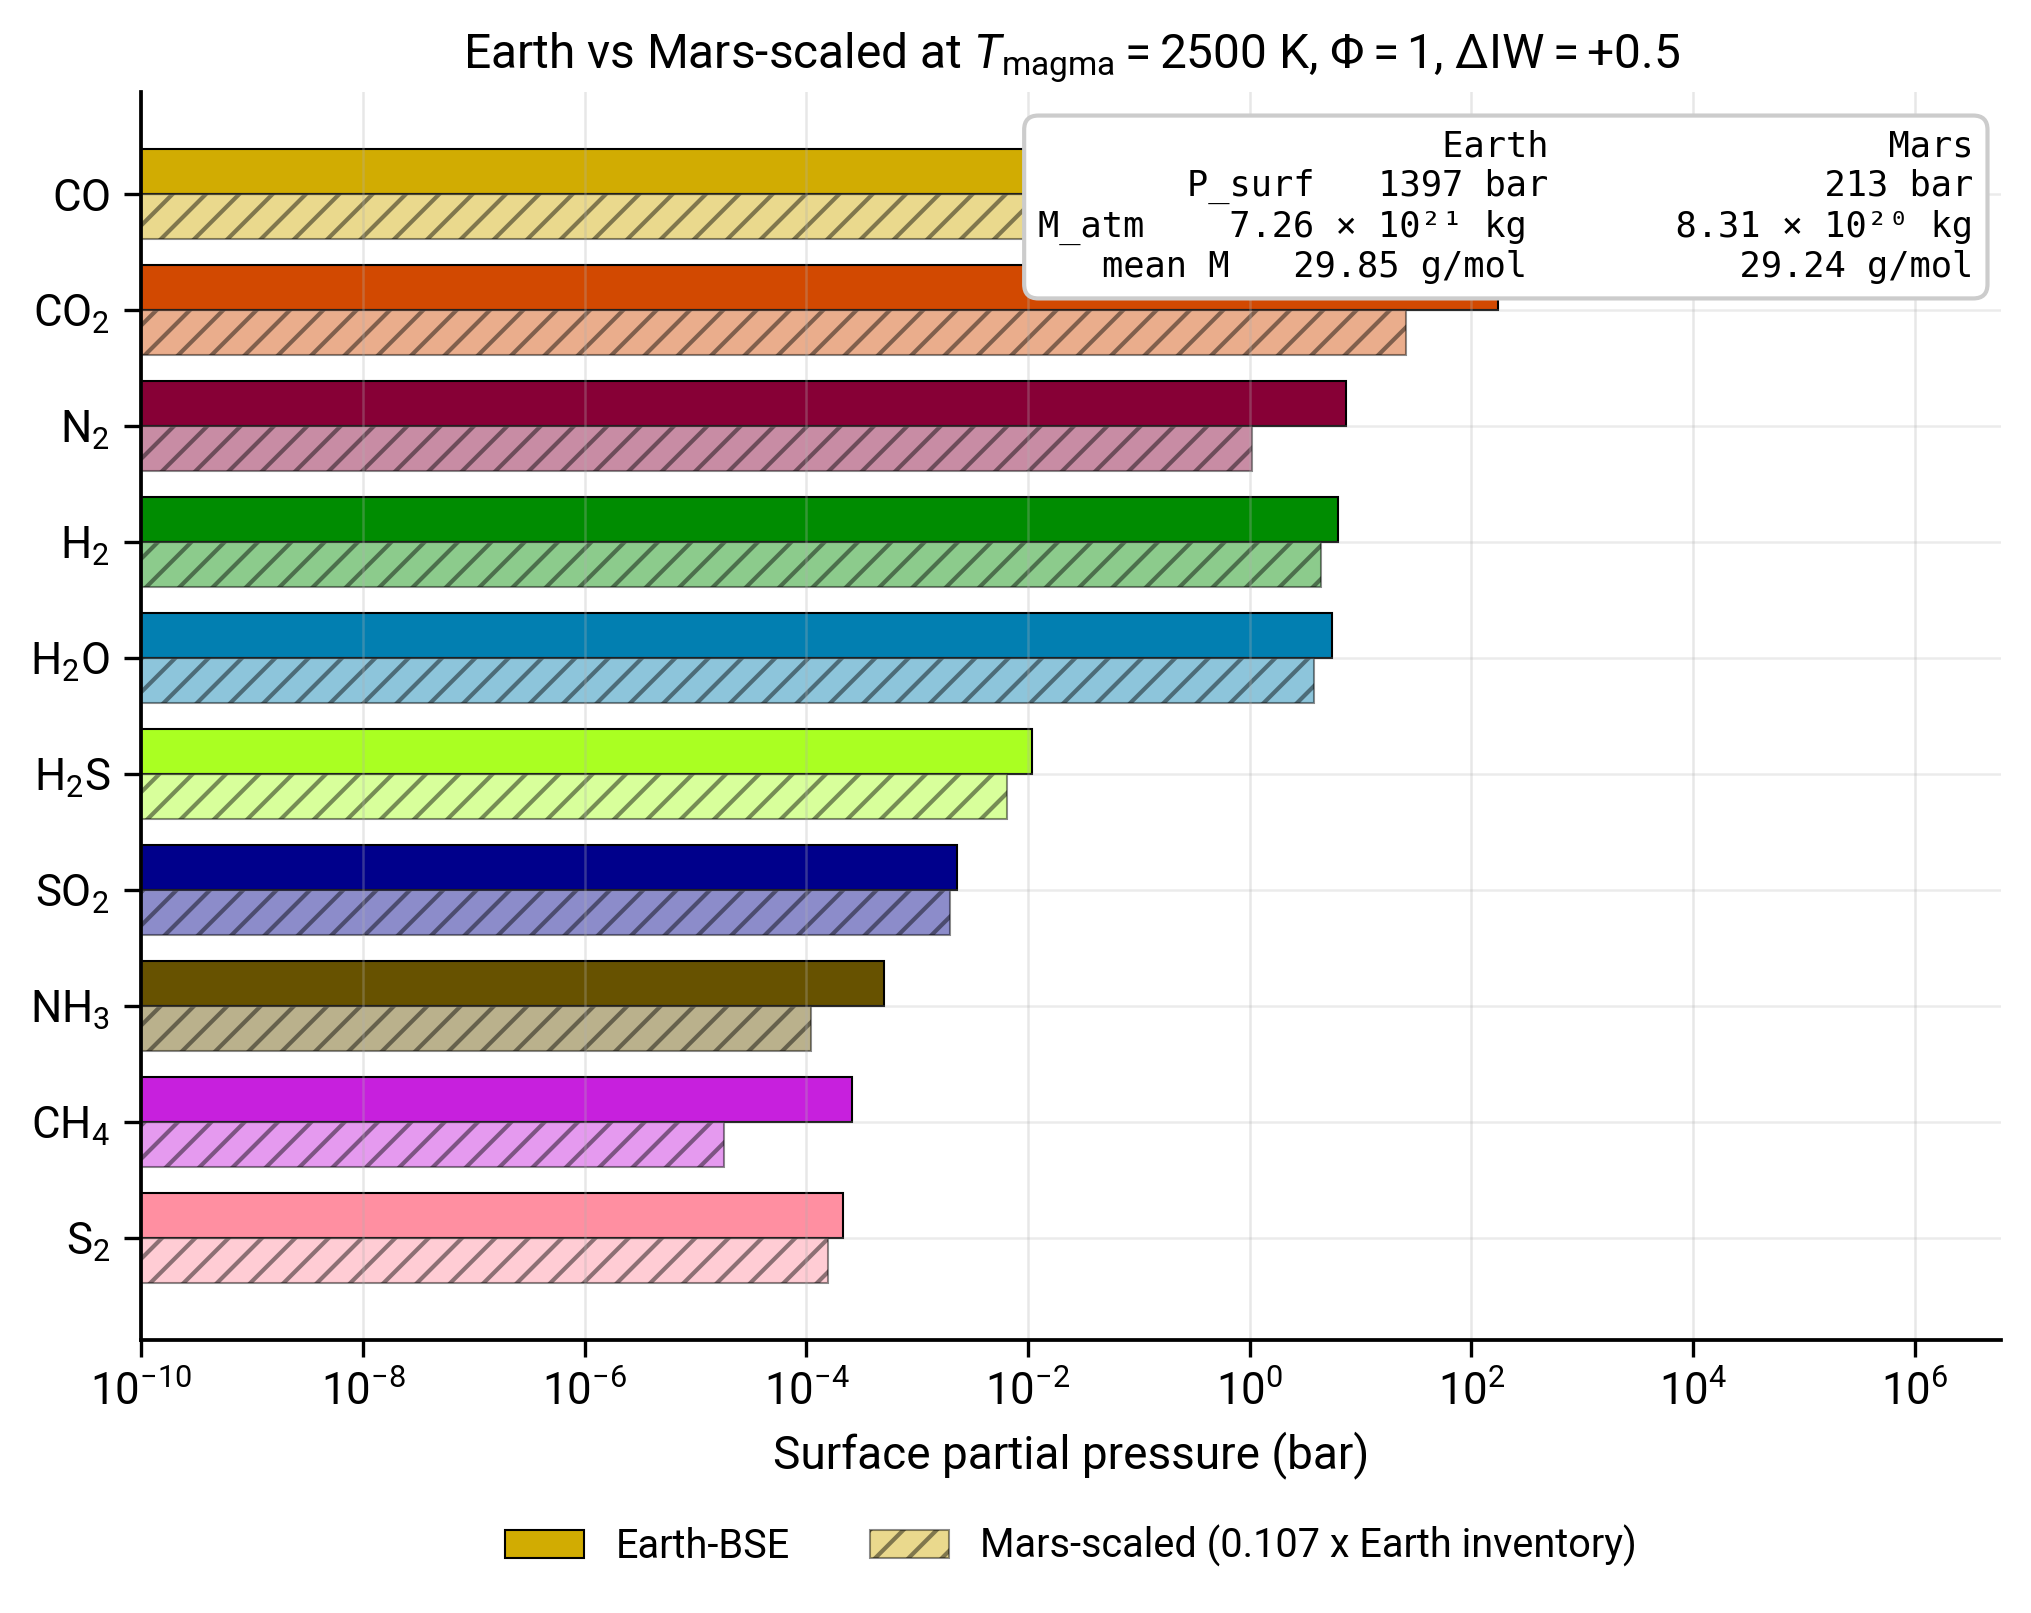
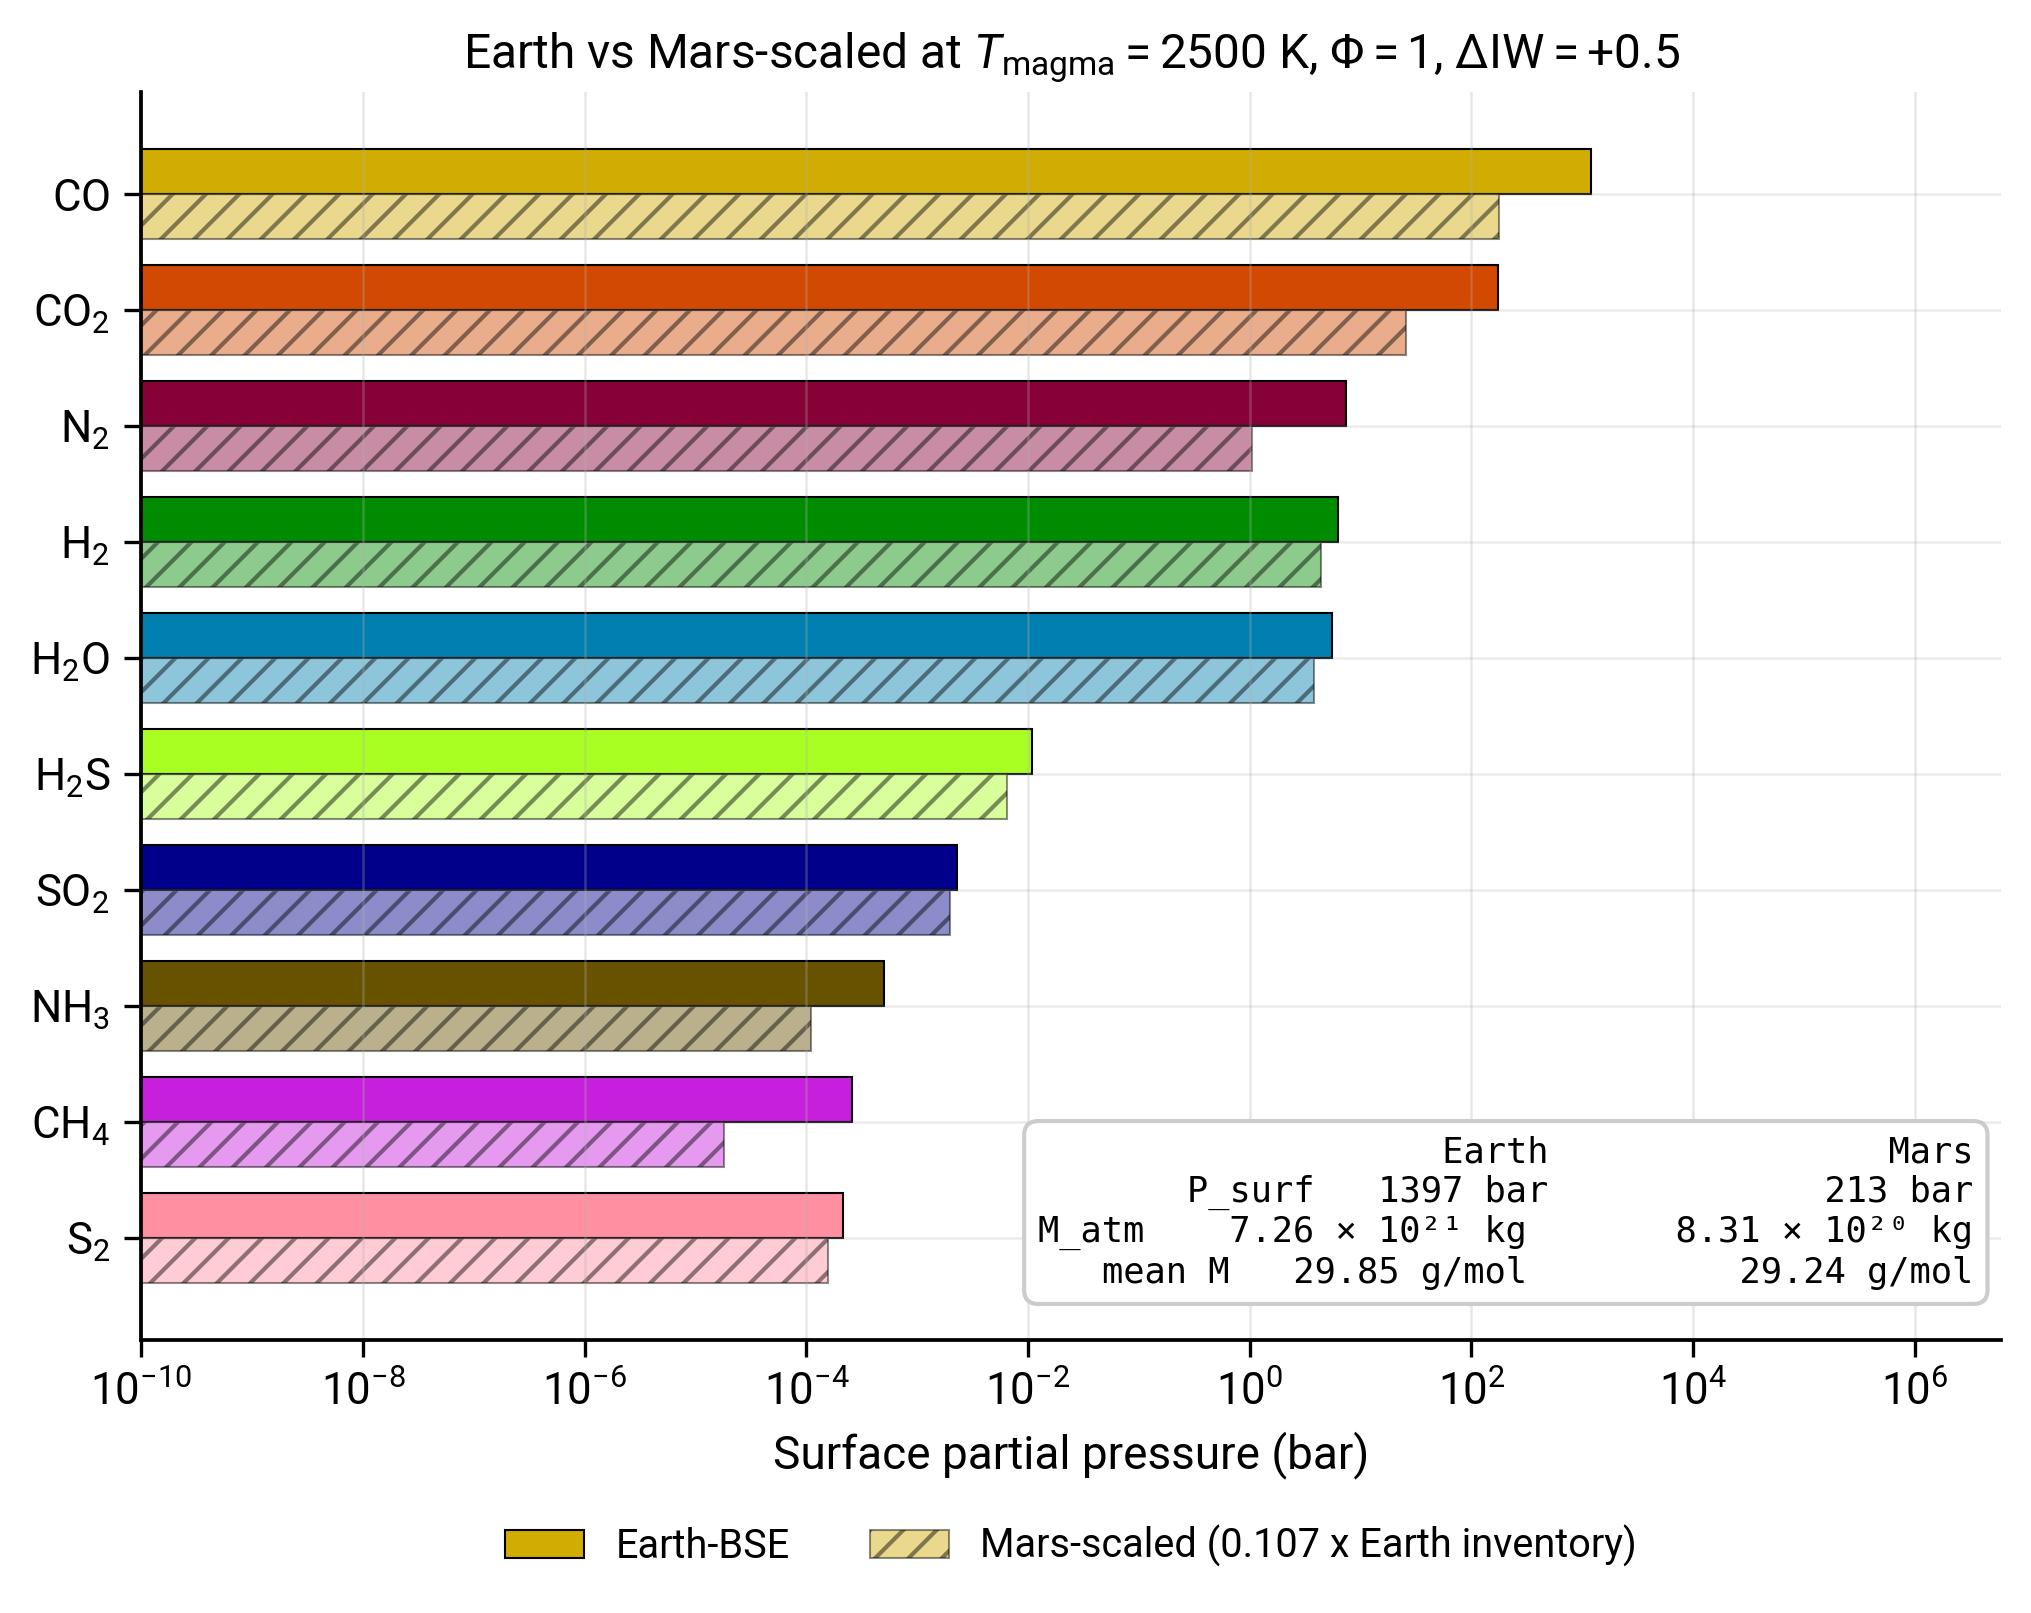
Move Mars summary box to the bottom-right
Top-right placement overlapped the CO bar at the top of the chart.
The bottom-right sits in genuinely empty space (the smallest bars at
S2 and CH4 are well to the left of the box).

diff --git a/scripts/tutorials/fig_mars_fiducial.py b/scripts/tutorials/fig_mars_fiducial.py
@@ -154,10 +154,10 @@ def make_figure(data: dict | None = None) -> dict:
         f'mean M   {e_w:<18s}   {m_w}'
     )
     ax.text(
-        0.985, 0.97, summary,
+        0.985, 0.04, summary,
         transform=ax.transAxes,
         fontsize=8.5, family='monospace',
-        va='top', ha='right',
+        va='bottom', ha='right',
         bbox=dict(boxstyle='round,pad=0.4', facecolor='white',
                   edgecolor='#cccccc'),
     )
